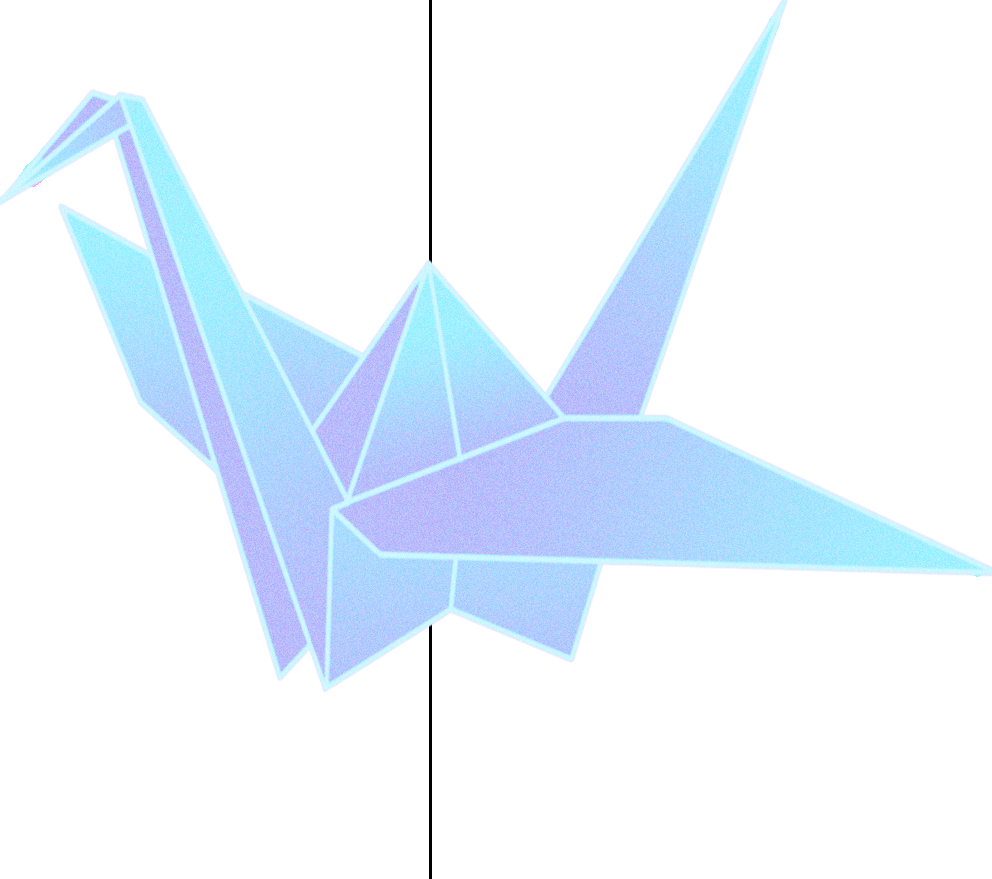
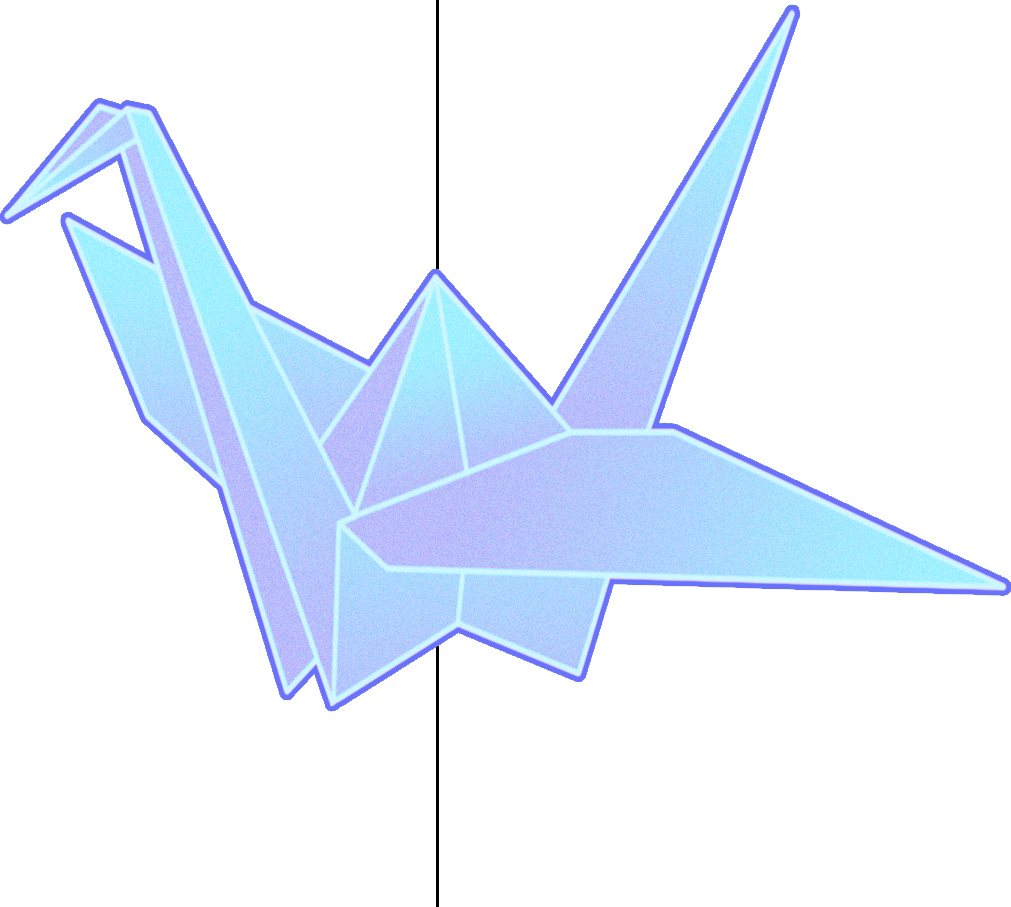
Added blue outline cranes and auto collape

diff --git a/frontend/src/components/CraneCanvas.js b/frontend/src/components/CraneCanvas.js
@@ -19,12 +19,10 @@ const getCraneNumber = (craneName) => {
 }
 
 //Adds click listener to each image of a crane
-const addCraneClickListeners = (setOpen, currentCranes, setCurrentDisplayedInfo, setSeenCranes) => {
+const addCraneClickListeners = (setOpen, currentCranes, setCurrentDisplayedInfo) => {
     const midImages = document.querySelectorAll('.midStringImg')
     for(let i = 0; i < midImages.length; i++){
         midImages[i].addEventListener('click', (e) => {
-            setSeenCranes(currentCranes[getCraneNumber(e.currentTarget.id) - 1])
-
             setCurrentDisplayedInfo({
                 message: currentCranes[getCraneNumber(e.currentTarget.id) - 1].message,
                 country: currentCranes[getCraneNumber(e.currentTarget.id) - 1].country,
@@ -39,8 +37,6 @@ const addCraneClickListeners = (setOpen, currentCranes, setCurrentDisplayedInfo,
     const endImages = document.querySelectorAll('.endStringImg')
     for(let i = 0; i < endImages.length; i++){
         endImages[i].addEventListener('click', (e) => {
-            setSeenCranes(currentCranes[getCraneNumber(e.currentTarget.id) - 1])
-
             setCurrentDisplayedInfo({
                 message: currentCranes[getCraneNumber(e.currentTarget.id) - 1].message,
                 country: currentCranes[getCraneNumber(e.currentTarget.id) - 1].country
@@ -102,7 +98,6 @@ const CraneCanvas = () => {
     const [currentCranes, setCurrentCranes] = useState([])
     const [currentCountryCode, setCurrentCountryCode] = useState("")
     const [currentDisplayedInfo, setCurrentDisplayedInfo] = useState("This is a message of a crane")
-    const [seenCranes, setSeenCranes] = useState([])
 
     useEffect(() => {
         async function initData() {
@@ -113,7 +108,7 @@ const CraneCanvas = () => {
             const getCranesRes = await fetch('/cranes/' + currentCountryCode, {
                 method: 'PUT',
                 headers: {"content-type": "application/json"},
-                body: JSON.stringify({numCranes: 20, currentCranes: seenCranes})
+                body: JSON.stringify({numCranes: 20, currentCranes: []})
             })
 
             let getCranesList = await getCranesRes.json() 
@@ -127,16 +122,11 @@ const CraneCanvas = () => {
 
             setCurrentCranes(getCranesList)
             
-            addCraneClickListeners(setOpen, getCranesList, setCurrentDisplayedInfo, setSeenCranes)
+            addCraneClickListeners(setOpen, getCranesList, setCurrentDisplayedInfo)
 
             //!Crane names are being set to undefined???
 
             //TODO Need to add full country name to message instead of code
-
-            //TODO seenCranes not working in backend
-
-            //TODO need to have pop up when query returns 0 to be dialog and not alert
-
         }
 
         initData();
@@ -303,7 +293,7 @@ const CraneCanvas = () => {
                         return stringImg
                     })}
                 </Grid>   
-                <div id="craneMenuDiv"><CraneMenu id="craneMenu" countryFilter={filterCountryCranes} setCurrentCountryCode={setCurrentCountryCode}/></div> 
+                <div id="craneMenuDiv"><CraneMenu id="craneMenu" setNoCraneOpen={setNoCraneOpen} countryFilter={filterCountryCranes} setCurrentCountryCode={setCurrentCountryCode}/></div> 
             </Grid>         
         </div>
             <Collapse in={noCraneOpen}>

diff --git a/frontend/src/components/CraneMenu.js b/frontend/src/components/CraneMenu.js
@@ -55,6 +55,7 @@ const CraneMenu = (props) => {
             > 
                 <Button id="newCranes" onClick={async () => {
                     await props.setCurrentCountryCode(menuCurrentCountryCode)
+                    await props.setNoCraneOpen(false)
                 }} variant="contained" color="primary">
                     Get New Cranes
                 </Button>
